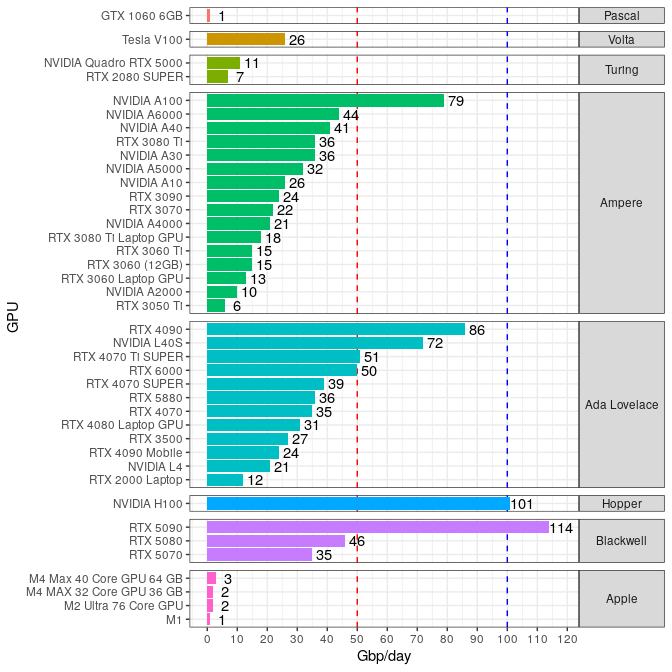
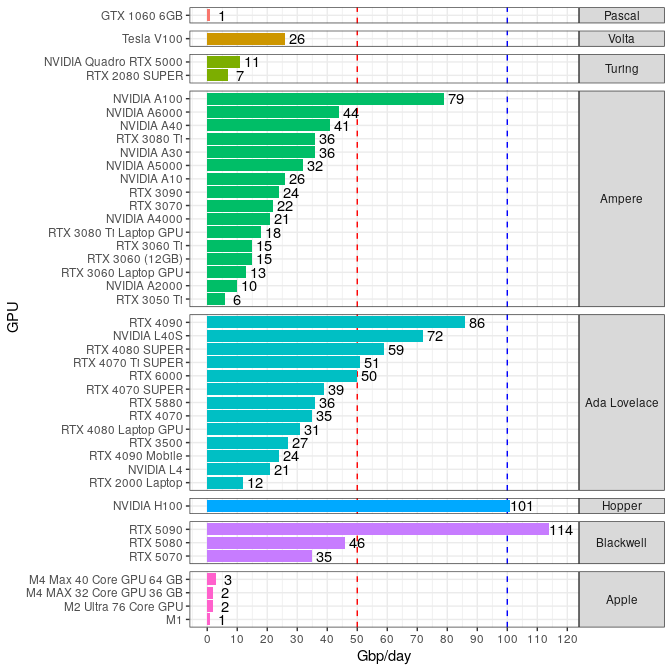
added 4080 super

diff --git a/README.md b/README.md
@@ -1,7 +1,7 @@
 README
 ================
 Rasmus Kirkegaard
-19 June, 2025
+30 June, 2025
 
 ## Aim
 
@@ -16,7 +16,7 @@ nanopore basecalling with
   faster)](https://www.dropbox.com/scl/fi/bpe4rxzst7odp4ia0xo28/basecalling_benchmarks_5khz_pod5s.tar.gz?rlkey=g1w76w3yooabdapycbsqvnln8&st=5u59ad6q&dl=0))
 - Download [dorado](https://github.com/nanoporetech/dorado)
 - Run basecalling
-  `dorado basecaller --device  'cuda:0' sup pod5s/ > basecalls.bam`
+  `dorado basecaller --device  'cuda:0' sup pod5/ > basecalls.bam`
 - Add your samples/s output to [google
   form](https://forms.gle/Qw1wiL662YrbHPxk6)
 
